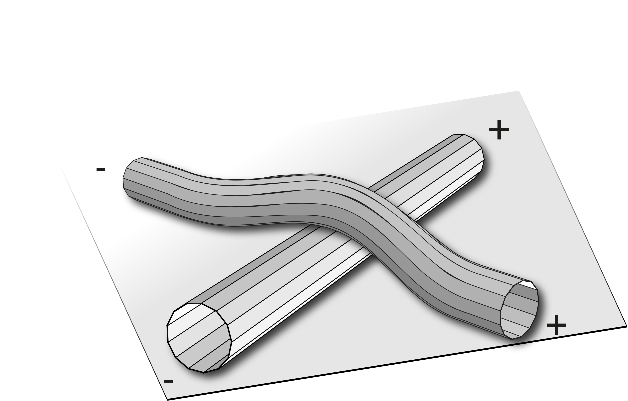
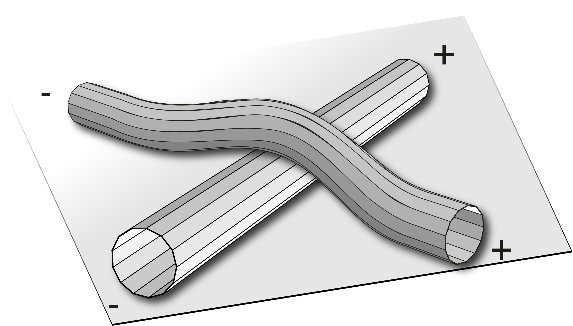
- "Learn more" on home page now leads to PREDIG web app - Added spacing on Group members pages - Centered microtubule crossing image - Removed "About" at top of each expand for funders cards - Rearrangement of buttons on the software page - Added alumni cards for Laura and Eric

diff --git a/frontend/src/components/people_cards/lauraCard.js b/frontend/src/components/people_cards/lauraCard.js
@@ -1,9 +1,8 @@
 import { Box, Button, Card, CardActions, CardContent, CardHeader, CardMedia, Collapse, Divider, Grid, IconButton, styled, Typography } from "@mui/material";
 import { useState } from "react";
-import { Link } from "react-router-dom";
-import Stack from '@mui/material/Stack';
+import photo from '../images/Laura.jpg';
 import LinkedInIcon from '@mui/icons-material/LinkedIn';
-import photo from './Merle-portraitformat.jpg';
+import { Link } from "react-router-dom";
 
 
 const ExpandMore = styled((props) => {
@@ -18,7 +17,7 @@ const ExpandMore = styled((props) => {
 }));
 
 
-const MerleCard = () => {
+const LauraCard = () => {
 
     const [expanded, setExpanded] = useState(false);
 
@@ -27,16 +26,16 @@ const MerleCard = () => {
     };
 
     return (
-        <Card style={{position:"relative",  minHeight: "500px", display: 'flex', justifyContent: 'space-between', flexDirection: 'column' }} elevation={5} >
+        <Card style={{ position:"relative", minHeight: "500px", display: 'flex', justifyContent: 'space-between', flexDirection: 'column' }} elevation={5} >
             <Box>
                 <CardHeader
-                    title="Merle Stein"
+                    title="Laura Randarevitch (Alumn)"
                 />
                 <Divider />
             </Box>
 
             <CardContent>
-            <Grid container justifyContent="space-around" alignItems="center" spacing={1} >
+            <Grid container  spacing={1} alignItems="center"  justifyContent="space-around">
                 <Grid item xs={7} sm={12} md={3.5}>
                 <CardMedia sx={{
                     padding: "1em", maxWidth: 350,
@@ -44,42 +43,38 @@ const MerleCard = () => {
                 }}
                     component="img"
                     image={photo}
-                    alt="A smart photo of Merle Stein"
+                alt="A smart photo of Laura"
                 />
                 </Grid>
-                <Grid item xs={12} sm={12} md={7} >
+                <Grid item xs={12} sm={12} md={7}>
 
                 <Typography variant="body1" align='left' >
-                Merle completed her Bachelor's degree in quantitative biology at Heinrich-Heine University. She worked with crops 
-                before discovering her interest in modelling techniques, which are the focus of her PhD project. Merle is working 
-                on a CEPLAS funded PhD project about modelling gene expression 
-                regulation at the whole-translatome scale under controlled optogenetic perturbation.
+                As a CEPLAS Graduate School student, Laura did a lab rotation in Dr Raguin's team in Spring 2022, 
+                during which she implemented simple stochastic models of protein production.
 
                 </Typography>
-                <p>
-                    
-                </p>
-                <Button variant="outlined" startIcon={<LinkedInIcon />} size="large" href="https://www.linkedin.com/in/merle-stein-304403259">
+                <Grid container  spacing={1} alignItems="center" justifyContent="center" marginTop={"1em"} >
+                    <Grid item>
+                        <Button variant="outlined" startIcon={<LinkedInIcon />} size="large" href="https://www.linkedin.com/in/laura-alexandra-randarevitch-4bb260253">
                             LinkedIn
-                </Button>
+                        </Button>
+                    </Grid>
                 </Grid>
 
             </Grid>
+            </Grid>
             </CardContent>
-            <Box alignItems="center">
+            <Box>
                 <Divider />
-                <CardActions>
-                   
-                        <Button variant="contained" component={Link} to="/research">
+                <CardActions disableSpacing>
+                <Button variant="contained" component={Link} to="/research">
                             Research Projects
                     </Button>
-                   
-
                 </CardActions>
             </Box>
 
-        </Card >
+            </Card >
     );
 };
 
-export default MerleCard;
+export default LauraCard;

diff --git a/frontend/src/components/people_cards/ericCard.js b/frontend/src/components/people_cards/ericCard.js
@@ -1,0 +1,87 @@
+import { Box, Button, Card, CardActions, CardContent, CardHeader, CardMedia, Collapse, Divider, Grid, IconButton, styled, Typography } from "@mui/material";
+import { useState } from "react";
+import photo from '../images/Eric.jpeg';
+import LinkedInIcon from '@mui/icons-material/LinkedIn';
+import { Link } from "react-router-dom";
+
+
+const ExpandMore = styled((props) => {
+    const { expand, ...other } = props;
+    return <IconButton {...other} />;
+})(({ theme, expand }) => ({
+    transform: !expand ? 'rotate(0deg)' : 'rotate(180deg)',
+    marginLeft: 'auto',
+    transition: theme.transitions.create('transform', {
+        duration: theme.transitions.duration.shortest,
+    }),
+}));
+
+
+const EricCard = () => {
+
+    const [expanded, setExpanded] = useState(false);
+
+    const handleExpandClick = () => {
+        setExpanded(!expanded);
+    };
+
+    return (
+        <Card style={{ position:"relative", minHeight: "500px", display: 'flex', justifyContent: 'space-between', flexDirection: 'column' }} elevation={5} >
+            <Box>
+                <CardHeader
+                    title="Eric Behle (Alumn)"
+                />
+                <Divider />
+            </Box>
+
+            <CardContent>
+            <Grid container  spacing={1} alignItems="center"  justifyContent="space-around">
+                <Grid item xs={7} sm={12} md={3.5}>
+                <CardMedia sx={{
+                    padding: "1em", maxWidth: 350,
+                    margin: "0 auto",
+                }}
+                    component="img"
+                    image={photo}
+                alt="A smart photo of Eric"
+                />
+                </Grid>
+                <Grid item xs={12} sm={12} md={7}>
+
+                <Typography variant="body1" align='left' >
+                From September 2019, Eric did his Master's degree thesis under the supervision of Dr Raguin, 
+                with who he worked afterwards as a research assistant. During the whole period, Eric developed
+                 the first version of the Plant Cell Wall Simulation model. He later took a PhD position at the Research Center of Jülich.
+
+
+                </Typography>
+                <Grid container  spacing={1} alignItems="center" justifyContent="center" marginTop={"1em"} >
+                    <Grid item>
+                        <Button variant="outlined" startIcon={<LinkedInIcon />} size="large" href="https://www.linkedin.com/in/eric-behle-774b17151">
+                            LinkedIn
+                        </Button>
+                    </Grid>
+                    <Grid item>
+                        <Button variant="outlined" size="large" href="https://www.researchgate.net/profile/Eric-Behle">
+                            Research Gate
+                        </Button>
+                    </Grid>
+                </Grid>
+                </Grid>
+
+            </Grid>
+            </CardContent>
+            <Box>
+                <Divider />
+                <CardActions disableSpacing>
+                <Button variant="contained" component={Link} to="/research">
+                            Research Projects
+                    </Button>
+                </CardActions>
+            </Box>
+
+            </Card >
+    );
+};
+
+export default EricCard;

diff --git a/frontend/src/components/software_cards/TASEPCard.js b/frontend/src/components/software_cards/TASEPCard.js
@@ -1,5 +1,5 @@
 import ExpandMoreIcon from '@mui/icons-material/ExpandMore';
-import { Box, Button, Card, CardActions, CardContent, CardHeader, CardMedia, Collapse, Divider, IconButton, styled, Typography } from "@mui/material";
+import { Box, Button, Card, CardActions, CardContent, CardHeader, CardMedia, Collapse, Divider, IconButton, Stack, styled, Typography } from "@mui/material";
 import { Link } from "react-router-dom";
 import { useState } from "react";
 import DescriptionIcon from '@mui/icons-material/Description';
@@ -33,7 +33,7 @@ const TASEPCard = () => {
         <Card sx={{ marginTop: "1em" }} style={{ position:"relative", minHeight: "10px", display: 'flex', justifyContent: 'space-between', flexDirection: 'column' }} elevation={5} >
             <Box>
                 <CardHeader align="left"
-                    title="Whole-translatome protein production and tRNA sequestration in yeas"
+                    title="Whole-translatome protein production and tRNA sequestration in yeast"
                 />
                 <Divider />
             </Box>
@@ -43,12 +43,14 @@ const TASEPCard = () => {
             <Box>
             <Divider/>
                 <CardActions >
+                <Stack direction={{ xs: 'column', sm: 'row' }} spacing={2} useFlexGap flexWrap="wrap">
                 <Button variant="contained" startIcon={<DescriptionIcon />} href="https://doi.org/10.1093/nar/gkaa055">
                         Publication
                 </Button>
                 <Button variant="contained" startIcon={<ComputerIcon />} href="https://www.ebi.ac.uk/biomodels/MODEL2001080004#Overview">
                         software
                 </Button>
+                </Stack>
                 <ExpandMore
                         expand={expanded}
                         onClick={handleExpandClick}

diff --git a/frontend/src/components/software_cards/predigCard.js b/frontend/src/components/software_cards/predigCard.js
@@ -1,5 +1,5 @@
 import ExpandMoreIcon from '@mui/icons-material/ExpandMore';
-import { Box, Button, Card, CardActions, CardContent, CardHeader, CardMedia, Collapse, Divider, Grid, IconButton, styled, Typography } from "@mui/material";
+import { Box, Button, Card, CardActions, CardContent, CardHeader, CardMedia, Collapse, Divider, Grid, IconButton, Stack, styled, Typography } from "@mui/material";
 import { Link } from "react-router-dom";
 import { useState } from "react";
 import ComputerIcon from '@mui/icons-material/ComputerTwoTone';
@@ -65,15 +65,17 @@ const PREDIGCard = () => {
             <Box>
             <Divider/>
                 <CardActions >
+                <Stack direction={{ xs: 'column', sm: 'row' }} spacing={2} useFlexGap flexWrap="wrap">
                 <Button variant="contained" startIcon={<DescriptionIcon />} href="https://doi.org/10.1371/journal.pcbi.1009262">
                         Publication
                 </Button>
                 <Button variant="contained" startIcon={<ComputerIcon />} href="https://predig.cs.hhu.de/">
-                        Software
+                        Web App
                 </Button>
                 <Button variant="contained" startIcon={<GitHubIcon />} href="https://gitlab.com/erbeh/pcwsm">
                         GitHub
                 </Button>
+                </Stack>
                 <ExpandMore
                         expand={expanded}
                         onClick={handleExpandClick}

diff --git a/frontend/src/components/software_cards/threedimGlycogenCard.js b/frontend/src/components/software_cards/threedimGlycogenCard.js
@@ -1,5 +1,5 @@
 import ExpandMoreIcon from '@mui/icons-material/ExpandMore';
-import { Box, Button, Card, CardActions, CardContent, CardHeader, CardMedia, Collapse, Divider, IconButton, styled, Typography } from "@mui/material";
+import { Box, Button, Card, CardActions, CardContent, CardHeader, CardMedia, Collapse, Divider, IconButton, Stack, styled, Typography } from "@mui/material";
 import { Link } from "react-router-dom";
 import { useState } from "react";
 import ComputerIcon from '@mui/icons-material/GitHub';
@@ -40,12 +40,14 @@ const ThreeDimGlycogenCard = () => {
             <Box>
             <Divider/>
                 <CardActions >
+                <Stack direction={{ xs: 'column', sm: 'row' }} spacing={2} useFlexGap flexWrap="wrap">
                 <Button variant="contained" startIcon={<DescriptionIcon />} href="https://www.researchgate.net/publication/364921626_Stochastic_modelling_of_a_three-dimensional_glycogen_granule_synthesis_and_impact_of_the_branching_enzyme">
                         Publication
                 </Button>
                 <Button variant="contained" startIcon={<ComputerIcon />} href="https://github.com/yvanrousset/Stochastic-modeling-of-a-three-dimensional-glycogen-granule">
                         GitHub
                 </Button>
+                </Stack>
                 <ExpandMore
                         expand={expanded}
                         onClick={handleExpandClick}

diff --git a/frontend/src/components/software_cards/ExpressInHostCard.js b/frontend/src/components/software_cards/ExpressInHostCard.js
@@ -1,5 +1,5 @@
 import ExpandMoreIcon from '@mui/icons-material/ExpandMore';
-import { Box, Button, Card, CardActions, CardContent, CardHeader, CardMedia, Collapse, Divider, IconButton, styled, Typography } from "@mui/material";
+import { Box, Button, Card, CardActions, CardContent, CardHeader, CardMedia, Collapse, Divider, IconButton, Stack, styled, Typography } from "@mui/material";
 import { Link } from "react-router-dom";
 import { useState } from "react";
 import DescriptionIcon from '@mui/icons-material/Description';
@@ -41,12 +41,14 @@ proteins in host microorganisms"
             <Box>
             <Divider/>
                 <CardActions >
+                <Stack direction={{ xs: 'column', sm: 'row' }} spacing={2} useFlexGap flexWrap="wrap">
                 <Button variant="contained" startIcon={<DescriptionIcon />}  href="https://doi.org/10.5334/jors.385">
                         Publication
                 </Button>
                 <Button variant="contained" startIcon={<ComputerIcon />} href="https://gitlab.com/a.raguin/expressinhost">
                         GitHub
                 </Button>
+                </Stack>
                 <ExpandMore
                         expand={expanded}
                         onClick={handleExpandClick}

diff --git a/frontend/src/pages/GroupMembers.js b/frontend/src/pages/GroupMembers.js
@@ -10,6 +10,8 @@ import TorbenCard from '../components/people_cards/torbenCard';
 
 import background from '../components/images/background.png';
 import groupphoto from  '../components/images/group2.jpg';
+import EricCard from '../components/people_cards/ericCard';
+import LauraCard from '../components/people_cards/lauraCard';
 
 function GroupMembers(){
     return(
@@ -98,6 +100,15 @@ function GroupMembers(){
                     </Grid>
                     <Grid item xs={12} sm={12} md={6}>
                         <AsmaCard />
+                    </Grid>
+                </Grid>
+
+                <Grid container justifyContent="space-around" marginBottom={"2em"} spacing={3} sx={{position:"relative", marginTop:"2em"}} >
+                    <Grid item xs={12} sm={12} md={6}>
+                        <EricCard />
+                    </Grid>
+                    <Grid item xs={12} sm={12} md={6}>
+                        <LauraCard />
                     </Grid>
                 </Grid>
 

diff --git a/frontend/src/components/funders_cards/BioSCCard.js b/frontend/src/components/funders_cards/BioSCCard.js
@@ -56,7 +56,6 @@ const BioSCCard = () => {
             </Box>
             <Collapse in={expanded} timeout="auto" unmountOnExit>
                 <CardContent>
-                    <Typography variant="h5">About</Typography>
                     <Typography paragraph align="left">
                     The Bioeconomy Science Center is based on an integrative structure consisting of basic, applied, and industry-oriented research, 
                     including the natural, engineering, and economic sciences, and is focussed on the mission of sustainable bioeconomy on the pillars 

diff --git a/frontend/src/components/funders_cards/DFGCard.js b/frontend/src/components/funders_cards/DFGCard.js
@@ -55,7 +55,6 @@ const DFGCard = () => {
             </Box>
             <Collapse in={expanded} timeout="auto" unmountOnExit>
                 <CardContent>
-                    <Typography variant="h5">About</Typography>
                     <Typography paragraph align="left">
                         
 The Deutsche Forschungsgemeinschaft (DFG, German Research Foundation) is the central self-governing research funding 

diff --git a/frontend/src/pages/research/softwareCard.js b/frontend/src/pages/research/softwareCard.js
@@ -55,7 +55,7 @@ const SoftwareCard = () => {
                 <CardActions disableSpacing  >
 
 
-                <Button variant="contained" component={Link} to="/software">
+                <Button variant="contained" href="https://predig.cs.hhu.de/">
                         Learn More
                 </Button>
 

diff --git a/frontend/src/components/funders_cards/CEPLASCard.js b/frontend/src/components/funders_cards/CEPLASCard.js
@@ -56,7 +56,6 @@ const CEPLASCard = () => {
             </Box>
             <Collapse in={expanded} timeout="auto" unmountOnExit>
                 <CardContent>
-                    <Typography variant="h5">About</Typography>
                     <Typography paragraph align="left">
                         
 
